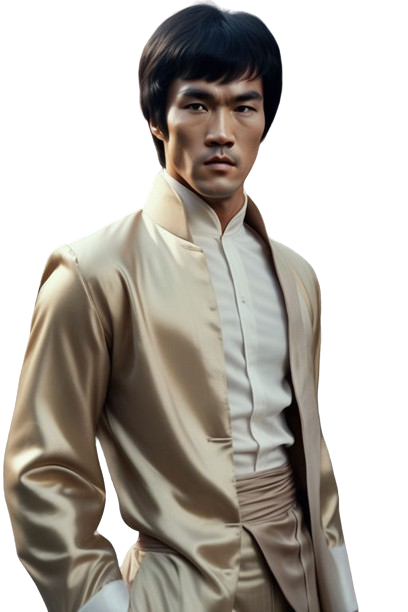
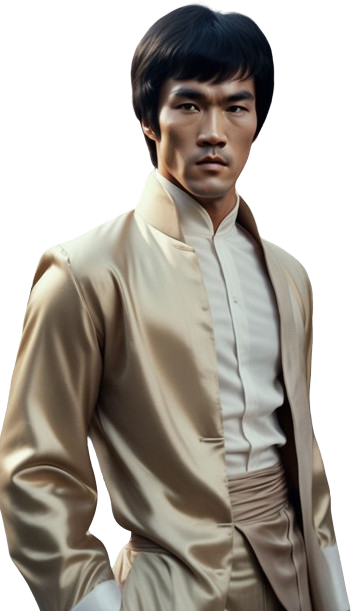
home responsive

diff --git a/src/Pages/WebDev.jsx b/src/Pages/WebDev.jsx
@@ -1,60 +1,84 @@
 import React from 'react';
 
-const videoData = [
+const resources = [
   {
-    title: 'Logical Reasoning',
-    src: 'https://www.youtube.com/embed/ORSrxVQ9SjM?si=uBZJFd6z8c18bikB'
+    title: 'HTML Step by Step Guide',
+    src: 'https://www.youtube.com/embed/FYErehuSuuw?si=84rILmVYvh6vQixN',
   },
   {
-    title: 'Quantitative Aptitude',
-    src: 'https://www.youtube.com/embed/videoseries?si=VEldtgjbG2MQGLOJ&amp;list=PLjLhUHPsqNYkcq6YOfiywbTfnvf_TN7i9'
+    title: 'CSS Step 1',
+    src: 'https://www.youtube.com/embed/vfs1wBDoqBY?si=akLDpE0hUaFHR06T',
   },
   {
-    title: 'Verbal Ability',
-    src: 'https://www.youtube.com/embed/videoseries?si=0dTPAuI3wUcjqS5o&amp;list=PLpyc33gOcbVBbD8Vfy-gCbivjSSHbMpUX'
+    title: 'CSS Step 2',
+    src: 'https://www.youtube.com/embed/jnfyH1k2c38?si=tNkd5MGll_W-hHu2',
   },
   {
-    title: 'Data Interpretation',
-    src: 'https://www.youtube.com/embed/videoseries?si=dhAFnnSxuMlFjxKK&amp;list=PL1lPSVzW89HbjJYYcO8On93-I2UsTnoqD'
+    title: 'CSS Step 3',
+    src: 'https://www.youtube.com/embed/hVWhsHOQbXM?si=qVtE4W63hKdksqnm',
   },
   {
-    title: 'Analytical Reasoning',
-    src: 'https://www.youtube.com/embed/videoseries?si=3s5mFXj6zo4tcl6r&amp;list=PLm_TIgLG6QUc2WLJ-H2EtHZCQUy2TgXxB'
+    title: 'CSS Step 4',
+    src: 'https://www.youtube.com/embed/YJsqKbqgpEY?si=Tg0Ky05jbCRgydH7',
   },
   {
-    title: 'Math Tricks',
-    src: 'https://www.youtube.com/embed/X98-TJRMZRk?si=dpfsLUHDNu2V6zAM'
+    title: 'JavaScript Step 1',
+    src: 'https://www.youtube.com/embed/videoseries?si=dAP397fcsumMRg31&list=PLlasXeu85E9cQ32gLCvAvr9vNaUccPVNP',
   },
   {
-    title: 'Comunicational Skills',
-    src: 'https://www.youtube.com/embed/videoseries?si=f57lDnmC3OYYtHxh&amp;list=PLOaeOd121eBEEWP14TYgSnFsvaTIjPD22'
+    title: 'JavaScript Step 2',
+    src: 'https://www.youtube.com/embed/videoseries?si=JRguvGTiBY78t-JF&list=PLlasXeu85E9eWOpw9jxHOQyGMRiBZ60aX',
   },
   {
-    title: 'Resume Building',
-    src: 'https://www.youtube.com/embed/imdfVam4Yb4?si=gwC0G-SPkqRTi_Uq'
+    title: 'Project Building 1',
+    src: 'https://www.youtube.com/embed/videoseries?si=iwztuOJnkAIbrG-O&list=PL4unWLKFsZfcx5algbuhyQDGtCN1j97Ul',
   },
   {
-    title: 'Coding Round',
-    src: 'https://www.youtube.com/embed/videoseries?si=2_V2VAL8V3Mpck3i&amp;list=PLWKjhJtqVAblv09G3sFgRMSeR0jnKQmJ9'
-  }
+    title: 'Project Building 2',
+    src: 'https://www.youtube.com/embed/videoseries?si=sUolUTDulRbzOcLk&list=PLDeyqbIrSi94DpxPdxa_38L-i7vBfaytn',
+  },
+  {
+    title: 'Tailwind CSS 1',
+    src: 'https://www.youtube.com/embed/q4nhEyFMzVg?si=8i5ZPMw-jlY4B95-',
+  },
+  {
+    title: 'Tailwind CSS 2',
+    src: 'https://www.youtube.com/embed/videoseries?si=jufGXiY9XZbRqXGf&list=PLXCfOoPnFIbtcyk6OYaSlVKfSJ1A24Qhp',
+  },
+  {
+    title: 'React.js',
+    src: 'https://www.youtube.com/embed/videoseries?si=t5_cMtZyJhtdpaCP&list=PL5mydh8SndyNMhrcuQqY1VY_cVTaoJC5C',
+  },
+  {
+    title: 'Version Control',
+    src: 'https://www.youtube.com/embed/WzO6VynQ7UM?si=rxzdTqn0O9Bybsuj',
+  },
+  {
+    title: 'Deployment 1',
+    src: 'https://www.youtube.com/embed/96Mz6EQa09Q?si=jQC9Pqw8j7CYO_fs',
+  },
+  {
+    title: 'Deployment 2',
+    src: 'https://www.youtube.com/embed/hiqsYwW7-jA?si=clb7yTx5Cjeu7qIx',
+  },
 ];
 
-const Aptitude = () => (
+const WebDevelopment = () => (
   <div className="bg-gray-100 min-h-screen py-12">
     <div className="max-w-7xl mx-auto px-4 sm:px-6 lg:px-8">
-      <h1 className="text-3xl font-bold text-center mb-8">Aptitude Resources</h1>
+      <h1 className="text-3xl font-bold text-center mb-8">Web Development Resources</h1>
 
       <div className="grid grid-cols-1 md:grid-cols-3 gap-6">
-        {videoData.map((video, index) => (
+        {resources.map((resource, index) => (
           <div key={index} className="bg-white p-4 rounded-lg shadow-md">
-            <h2 className="text-xl font-semibold mb-4">{video.title}</h2>
+            <h2 className="text-xl font-semibold mb-4">{resource.title}</h2>
             <iframe
               width="100%"
               height="315"
-              src={video.src}
-              title={video.title}
+              src={resource.src}
+              title={resource.title}
               frameBorder="0"
-              allow="accelerometer; autoplay; clipboard-write; encrypted-media; gyroscope; picture-in-picture; web-share"
+              allow="accelerometer; autoplay; clipboard-write; encrypted-media; gyroscope; picture-in-picture"
               referrerPolicy="strict-origin-when-cross-origin"
               allowFullScreen
               className="rounded-lg"
@@ -66,4 +90,4 @@ const Aptitude = () => (
   </div>
 );
 
-export default Aptitude;
+export default WebDevelopment;

diff --git a/src/Components/Sidebar.jsx b/src/Components/Sidebar.jsx
@@ -1,4 +1,4 @@
-import React, { useState } from 'react';
+import React, { useState, useEffect } from 'react';
 import { Link } from 'react-router-dom';
 import { FiMenu } from 'react-icons/fi';
 import styled from 'styled-components';
@@ -9,8 +9,12 @@ const SidebarContainer = styled.aside`
   padding: 0.25rem;
   position: fixed;
   transition: all 0.3s;
-  width: ${props => props.isOpen ? '7.5rem' : '3rem'};
+  width: ${props => props.isOpen ? '12rem' : '3rem'};
   border-right: 9px solid black;
+
+  @media (min-width: 768px) {
+    width: ${props => props.isOpen ? '7.5rem' : '3rem'};
+  }
 `;
 
 const MenuButton = styled.button`
@@ -61,8 +65,9 @@ const NavLink = styled(Link)`
   }
 `;
 
-const Sidebar = () => {
+const Sidebar = ({ children }) => {
   const [isOpen, setIsOpen] = useState(false);
+  const [isMobile, setIsMobile] = useState(window.innerWidth < 768);
 
   const toggleSidebar = () => {
     setIsOpen(!isOpen);
@@ -72,25 +77,40 @@ const Sidebar = () => {
     setIsOpen(false);
   };
 
-  return (
-    <SidebarContainer isOpen={isOpen}>
-      <div>
-        <MenuButton onClick={toggleSidebar}>
-          <FiMenu size={24} />
-        </MenuButton>
-      </div>
+  const handleResize = () => {
+    setIsMobile(window.innerWidth < 768);
+  };
 
-      <NavList isOpen={isOpen}>
-        <NavItem><NavLink to="/web-development" onClick={closeSidebar}>Web Development</NavLink></NavItem>
-        <NavItem><NavLink to="/app-development" onClick={closeSidebar}>App Development</NavLink></NavItem>
-        <NavItem><NavLink to="/problem-solving" onClick={closeSidebar}>Problem Solving</NavLink></NavItem>
-        <NavItem><NavLink to="/Blockchain" onClick={closeSidebar}>Blockchain</NavLink></NavItem>
-        <NavItem><NavLink to="/Aptitude" onClick={closeSidebar}>Aptitude</NavLink></NavItem>
-        <NavItem><NavLink to="/Aiml" onClick={closeSidebar}>AI & ML & DL</NavLink></NavItem>
-        <NavItem><NavLink to="/Entrepreneur" onClick={closeSidebar}>Entrepreneur</NavLink></NavItem>
-        <NavItem><NavLink to="/tech" onClick={closeSidebar}>IT Knowledge</NavLink></NavItem>
-      </NavList>
-    </SidebarContainer>
+  useEffect(() => {
+    window.addEventListener('resize', handleResize);
+    return () => {
+      window.removeEventListener('resize', handleResize);
+    };
+  }, []);
+
+  return (
+    <>
+      <SidebarContainer isOpen={isOpen}>
+        <div>
+          <MenuButton onClick={toggleSidebar}>
+            <FiMenu size={24} />
+          </MenuButton>
+        </div>
+        <NavList isOpen={isOpen}>
+          <NavItem><NavLink to="/web-development" onClick={closeSidebar}>Web Development</NavLink></NavItem>
+          <NavItem><NavLink to="/app-development" onClick={closeSidebar}>App Development</NavLink></NavItem>
+          <NavItem><NavLink to="/problem-solving" onClick={closeSidebar}>Problem Solving</NavLink></NavItem>
+          <NavItem><NavLink to="/Blockchain" onClick={closeSidebar}>Blockchain</NavLink></NavItem>
+          <NavItem><NavLink to="/Aptitude" onClick={closeSidebar}>Aptitude</NavLink></NavItem>
+          <NavItem><NavLink to="/Aiml" onClick={closeSidebar}>AI & ML & DL</NavLink></NavItem>
+          <NavItem><NavLink to="/Entrepreneur" onClick={closeSidebar}>Entrepreneur</NavLink></NavItem>
+          <NavItem><NavLink to="/tech" onClick={closeSidebar}>IT Knowledge</NavLink></NavItem>
+        </NavList>
+      </SidebarContainer>
+      <main style={{ marginLeft: isOpen && !isMobile ? '7.5rem' : '3rem', transition: 'margin-left 0.3s' }}>
+        {children}
+      </main>
+    </>
   );
 };
 

diff --git a/src/Components/Home.jsx b/src/Components/Home.jsx
@@ -1,7 +1,7 @@
 import React, { useEffect } from 'react';
 import 'aos/dist/aos.css';
 import AOS from 'aos';
-import Hero from '../assets/Hero.png'
+import Hero from '../assets/Hero.png';
 
 const Home = () => {
   useEffect(() => {
@@ -10,14 +10,13 @@ const Home = () => {
 
   return (
     <div className="lg:ml-48 p-4">
-      <div className="flex flex-col-reverse md:flex-row items-center mb-8">
-        <div className="w-full md:w-1/2 pr-0 md:pr-8 mb-4 md:mb-0" data-aos="fade-right">
-          <h1 className="text-4xl font-bold mb-4">Gear Up for <span className='text-6xl font-bold md:4'>Success</span>: Your Ultimate Preparation Hub!
-          </h1>
-          <p className="text-lg text-gray-700 mb-4">Welcome juniors. Here you'll find a variety of materials and tools to help you with your studies and projects.</p>
-        </div>
-        <div className="w-full md:w-1/2 mb-4 md:mb-0" data-aos="fade-left">
+      <div className="flex flex-col md:flex-row items-center mb-8">
+        <div className="w-full md:w-1/2 mb-4 md:mb-0" data-aos="fade-left" data-aos-duration="1500">
           <img src={Hero} alt="Image" className="rounded-lg shadow-md" />
+        </div>
+        <div className="w-full md:w-1/2 pr-0 md:pr-8 mb-4 md:mb-0" data-aos="fade-right" data-aos-duration="1500">
+          <h1 className="text-4xl font-bold mb-4">Gear Up for <span className='text-6xl font-bold md:4'>Success</span>: Your Ultimate Preparation Hub!</h1>
+          <p className="text-lg text-gray-700 mb-4">Welcome juniors. Here you'll find a variety of materials and tools to help you with your studies and projects.</p>
         </div>
       </div>
     </div>

diff --git a/src/Components/Footer.jsx b/src/Components/Footer.jsx
@@ -1,13 +1,18 @@
 import React from 'react';
 
 const Footer = () => (
-  <footer className="bg-black text-white p-1 fixed left-0 right-0 bottom-0 w-full">
+  <footer className="bg-black text-white p-1 fixed left-0 right-0 bottom-0 w-full ">
     <div className="container mx-auto text-center">
-      <p>&copy; 2024 VSBEC Candidates. All rights reserved.</p>
+    <p className='mt-1'>
+  <span>&copy; 2024 Shankaranarayanansk. All rights reserved.</span>
+  <a href="https://shankaranarayanansk.web.app/" className='ml-2'>Developer</a>
+</p>
+
+
       <div className="mt-1">
-        <a href="https://shankaranarayanansk.web.app/" className="hover:underline">
+        {/* <a href="https://shankaranarayanansk.web.app/" className="hover:underline">
           Developer: Shankaranarayanansk
-        </a>
+        </a> */}
       </div>
     </div>
   </footer>

diff --git a/src/index.css b/src/index.css
@@ -15,16 +15,14 @@
   animation: scroll 60s linear infinite;
 }
 ::-webkit-scrollbar {
-    width: 10px; /* width of the scrollbar track */
+    width: 10px; 
   }
   
-  /* Customize the scrollbar thumb (drag handle) */
   ::-webkit-scrollbar-thumb {
     background-color:#000000;
     border-radius: 2px;
   }
   
-  /* Customize the scrollbar thumb on hover */
   ::-webkit-scrollbar-thumb:hover {
     background-color: #00d5ff;
   }

diff --git a/src/Components/Navbar.jsx b/src/Components/Navbar.jsx
@@ -53,7 +53,6 @@ const Navbar = () => {
     <nav className="bg-black p-1.5 lg:px-12 flex items-center justify-between sticky top-0 z-50">
       <div className="flex items-center space-x-8">
         <img src={Logo} alt="Logo" className="h-12 w-auto" />
-        <span className="text-red-600 text-2xl font-bold "style={{ fontFamily: 'Poppins, sans-serif' }} >VSBEC Candidates</span>
       </div>
 
       <div className="lg:hidden">

diff --git a/src/App.css b/src/App.css
@@ -1,4 +1,4 @@
-@import url('https://fonts.googleapis.com/css2?family=Poppins:wght@400;600&display=swap');
+@import url('https://fonts.googleapis.com/css2?family=Bona+Nova+SC:ital,wght@0,400;0,700;1,400&display=swap');
 body {
-  font-family: 'Poppins', sans-serif;
+  font-family: "Bona Nova SC", serif;
 }
